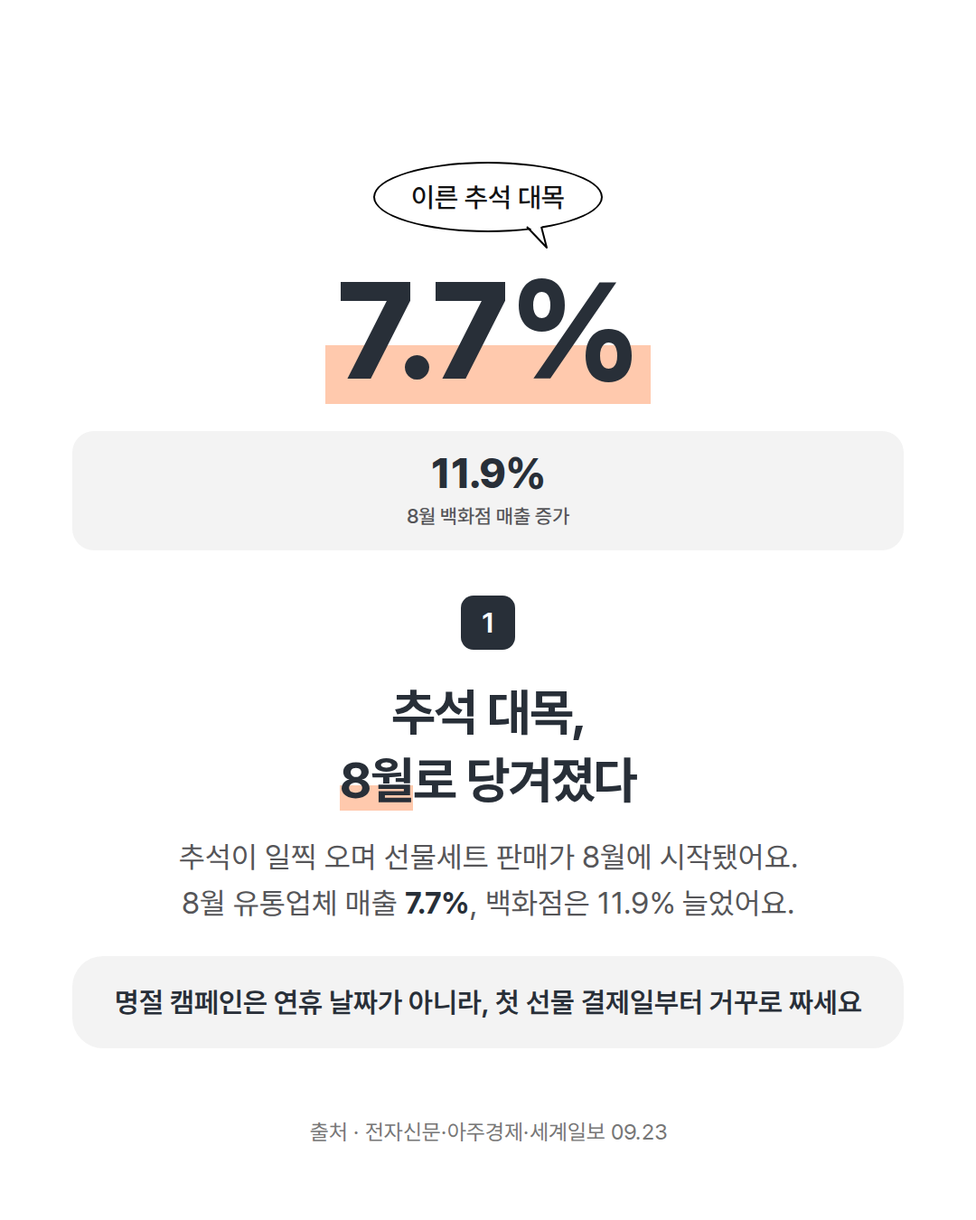
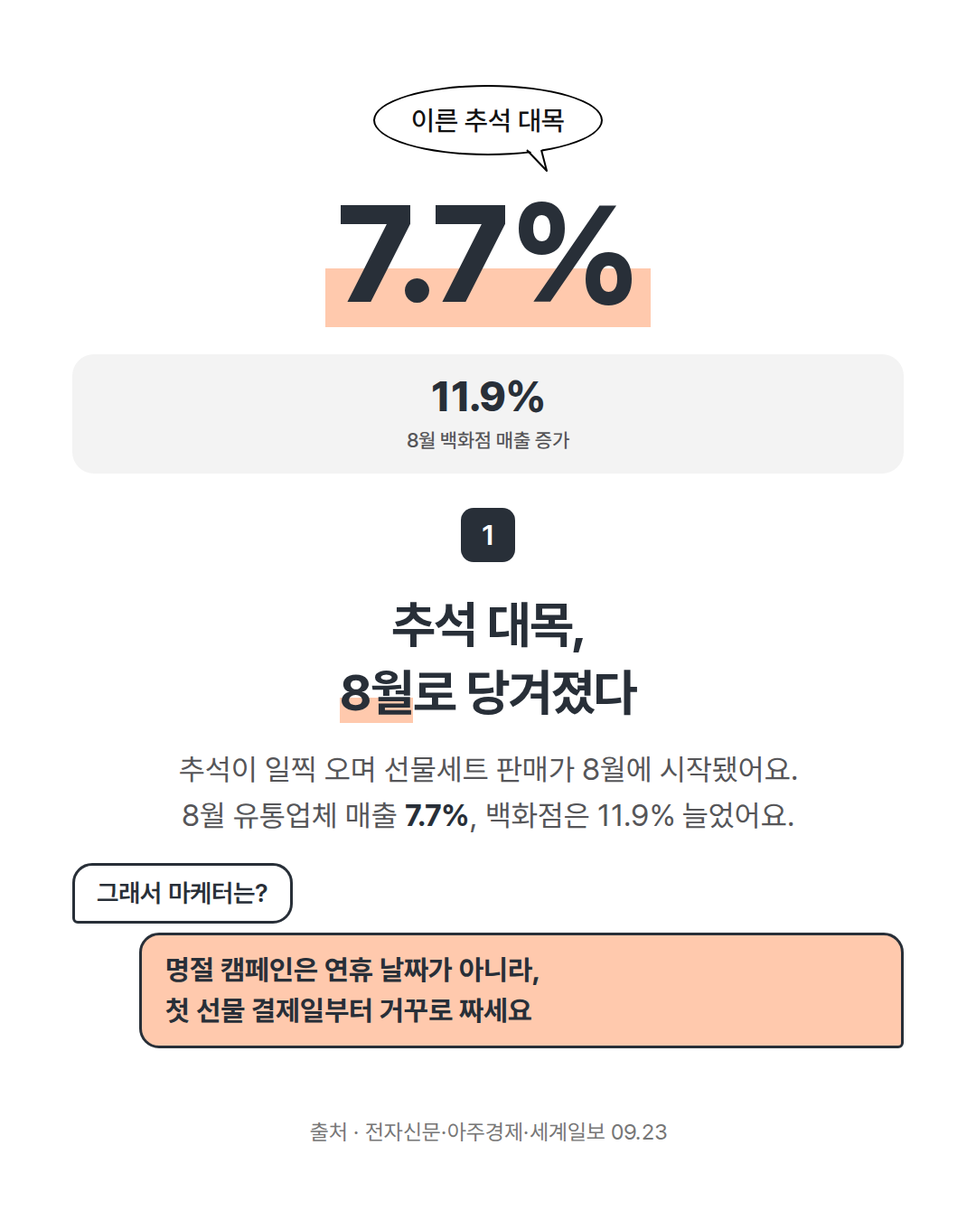
Newneek-inspired cover, dialogue insight, caption, optional photo cover
After comparing against @newneek.official posts:

- cover: title lines as bordered strips (legible at grid size), a
  kicker line, and three sticker callouts built from issues 2-4
- issue cards: the insight becomes a "그래서 마케터는?" question bubble
  followed by an answer bubble instead of a grey box
- caption: hook + short summary, today's list, save/comment prompts,
  a comment-keyword DM line (config instagram.dm_keyword, default
  '에디트'; DMs are sent by hand) and the newsletter line
- optional real-photo cover: automation/fetch_photo.py searches
  Wikimedia Commons for CC0 / public-domain / CC BY images (CC BY-SA
  only with --allow-sa), saves to assets/photos/ and prints the credit;
  without network access it exits 2 and the keyword cover is used
- RUNBOOK/README updated; VOL.093 rebuilt (9 cards, no overflow)

Claude-Session: https://claude.ai/code/session_01ERT3EipEoswRZZJYwfnxsr

Changed region(s): [[0.0917, 0.0622, 0.9472, 0.8711]]

diff --git a/instagram/2026-09-24/index.html b/instagram/2026-09-24/index.html
@@ -47,11 +47,19 @@
 
 올해 추석이 이르게 찾아오면서 선물세트 대목이 8월로 당겨졌어요. 8월 주요 유통업체 매출은 1년 전보다 7.7% 늘었고, 백화점은 11.9% 뛰었어요.
 
-짧아진 연휴가 바꾼 소비, AI가 쥐기 시작한 장바구니, 다시 쓰이는 배달 플랫폼 규칙까지 — 오늘의 10가지 중 핵심을 6장에 담았어요.
+목요일의 마케팅 브리프 6가지 👇
+· 추석 대목, 8월로 당겨졌다
+· 연휴는 짧아졌는데, 지출은 늘었다
+· 멀리 대신 가까이, 근거리가 90%
+· GPT-6, 반값이 됐다
+· 우버, 배민의 새 주인 되나
+· 배달 수수료 상한, 비용은 누가 내나
 
-💬 여러분 브랜드의 &#x27;대목&#x27;은 달력보다 몇 주 먼저 오나요? 댓글로 알려주세요.
+📌 저장해두고 회의 전에 꺼내보세요
+💬 우리 브랜드의 대목은, 달력보다 몇 주 먼저 오나요? 댓글로 알려주세요
 
-📩 매 영업일 아침 9시, 뉴스레터로 받아보세요 — 프로필 링크
+📩 댓글에 &#x27;에디트&#x27; 남기면 뉴스레터 구독 링크를 DM으로 보내드려요
+매 영업일 아침 9시, 10가지 전문과 출처는 뉴스레터로 — 프로필 링크 @edit.h.kr
 #마케팅 #마케팅트렌드 #마케터 #추석마케팅 #명절마케팅 #유통트렌드 #AI커머스 #카드뉴스 #EDITH</pre>
   </section>
 </main>

diff --git a/automation/edith/cards.py b/automation/edith/cards.py
@@ -3,9 +3,9 @@
 Design M 카드뉴스 키트 '매거진 세트'(표지 24 → 본문 9 → 마무리 9) 규격을 재현한 것으로, 키트 원본
 파일·이미지는 쓰지 않고 실측한 치수·색만 옮겼다. 키트의 핑크는 EDIT H 브랜드 버밀리언 계열로 바꿨다.
 
-  01      표지     #호수·요일·브리프·N가지 칩 + 핵심어 대형 형광 마커 + 두 줄 제목. 사진이 있으면 사진 배경
+  01      표지     머리말 + 띠 제목 두 줄(뉴닉식) + 핵심어 대형 마커 또는 실사 사진 + 다른 이슈 스티커 3개
   02      요약     '오늘의 6가지 한눈에' — 번호·제목·숫자 목록(키트 본문 19·20 문법). 저장을 부르는 카드
-  03~08   이슈 6장  말풍선 태그 → 형광 마커 숫자 → 보조 수치 상자 → 번호 배지 → 제목 → 짧은 본문 → 인사이트 상자
+  03~08   이슈 6장  말풍선 태그 → 형광 마커 숫자 → 보조 수치 상자 → 번호 배지 → 제목 → 짧은 본문 → '그래서 마케터는?' 대화
                    H PICK 1장은 검정 배경 + 윤곽 숫자 + 노란 '(H PICK · 오늘의 핵심)', compare형은 BEFORE/AFTER 상자
   09      마무리   오늘의 저장각 + 프로필 카드(10개 이슈 전문 · 6장 핵심 카드 · N호 누적 발행)
 
@@ -138,34 +138,53 @@ def _photo_uri(path):
     return f"data:{mime};base64,{base64.b64encode(p.read_bytes()).decode()}"
 
 
+def _strip(text, bg, size=74):
+    """뉴닉식 띠 제목 — 줄마다 테두리 상자. 그리드 썸네일에서도 제목이 읽히게 한다."""
+    return (f'<div style="display:inline-block;background:{bg};border:4px solid {TEXT};padding:10px 22px 12px;'
+            f'font-weight:800;font-size:{fs(size)};line-height:1.15;letter-spacing:-1.5px;color:{TEXT};white-space:nowrap;">{plain(text)}</div>')
+
+
+def _sticker(text, rotate):
+    return (f'<div style="display:inline-block;transform:rotate({rotate}deg);background:#FFFFFF;border:3px solid {TEXT};'
+            f'padding:10px 18px;font-weight:700;font-size:30px;line-height:1;color:{TEXT};white-space:nowrap;'
+            f'box-shadow:0 3px 8px rgba(0,0,0,.14);">{esc(text)}</div>')
+
+
 def cover(d):
+    """머리말 → 띠 제목 두 줄 → (사진 또는 핵심어 대형 마커) + 오늘의 다른 이슈 스티커 3개."""
     cov = d["cards"]["cover"]
     photo = cov.get("photo")
-    fg = "#FFFFFF" if photo else TEXT
-    first, *rest = str(cov.get("title") or d["hero_title"]).split("\n")
-    chips = [(f"#{d['vol']}", True), (f"{WEEKDAY_FULL[d['weekday']]}의", False), ("브리프", False),
-             (f"{len(d['card_issues'])}가지", False)]
-    kw = cov["keyword"]
-    kw_size = fit_size(kw, 300)
-    keyword = (f'<div style="margin-top:70px;display:inline-block;padding:0 .06em;font-weight:800;font-size:{fs(kw_size)};'
-               f'line-height:1;letter-spacing:-{round(kw_size / 30)}px;color:{fg};white-space:nowrap;'
-               f'background:linear-gradient(180deg,transparent 62%,{ACC_FILL if not photo else "rgba(255,201,173,.55)"} 62%);">{esc(kw)}</div>')
+    l1, *rest = str(cov.get("title") or d["hero_title"]).split("\n")
+    l2 = " ".join(rest)
+    issues = d["card_issues"]
+    stickers = [f'{it["tag"]} {hero_value(it)}' for it in issues[1:4]]
+    spots = [("left:10px;top:0;", -3), ("right:0;top:230px;", 2), ("left:40px;top:430px;", -1.5)]
+    sticker_html = "".join(f'<div style="position:absolute;{pos}">{_sticker(t, r)}</div>' for t, (pos, r) in zip(stickers, spots))
+    kicker = f"#{d['vol']} {WEEKDAY_FULL[d['weekday']]}의 마케팅 브리프 | 오늘의 {len(issues)}가지"
     bg = ""
     if photo:
+        # 사진이 아래 60%를 채우고, 위쪽은 흰 그라데이션으로 띠 제목을 받친다
         bg = (f'<div style="position:absolute;inset:0;background:url(\'{_photo_uri(photo)}\') {cov.get("focus") or "center"}/cover no-repeat;"></div>'
-              '<div style="position:absolute;inset:0;background:rgba(0,0,0,.37);"></div>'
-              '<div style="position:absolute;inset:0;background:linear-gradient(180deg,rgba(0,0,0,0) 45%,rgba(0,0,0,.38) 100%);"></div>')
-    credit = (f'<div style="position:absolute;right:60px;bottom:48px;font-size:20px;color:rgba(255,255,255,.72);">'
+              '<div style="position:absolute;inset:0;background:linear-gradient(180deg,rgba(255,255,255,.97) 0%,'
+              'rgba(255,255,255,.9) 26%,rgba(255,255,255,0) 46%);"></div>')
+        hero = ""
+    else:
+        kw = cov["keyword"]
+        size = fit_size(kw, 380)
+        hero = (f'<div style="position:absolute;left:0;right:0;top:40px;text-align:center;"><span style="display:inline-block;'
+                f'padding:0 .06em;font-weight:800;font-size:{fs(size)};line-height:1;letter-spacing:-{round(size / 30)}px;color:{TEXT};'
+                f'background:linear-gradient(180deg,transparent 62%,{ACC_FILL} 62%);">{esc(kw)}</span></div>')
+    shadow = "text-shadow:0 1px 4px rgba(0,0,0,.55);" if photo else ""
+    foot_color = "#FFFFFF" if photo else MUTED
+    credit = (f'<div style="position:absolute;right:40px;bottom:24px;font-size:19px;color:rgba(255,255,255,.85);{shadow}">'
               f'{esc(cov["credit"])}</div>') if photo and cov.get("credit") else ""
     return _frame(f"""{bg}
-<div class="body" style="padding:0 60px 170px;justify-content:flex-end;align-items:center;text-align:center;">
-  {chip_row(chips)}
-  {keyword}
-  <div class="bal" style="margin-top:56px;font-size:{fs(80)};line-height:1.42;letter-spacing:-1.5px;color:{fg};">
-    <div style="font-weight:700;">{plain(first)}</div>
-    <div style="font-weight:400;">{plain(" ".join(rest))}</div>
-  </div>
-</div>{credit}""", "#000000" if photo else "#FFFFFF")
+<div class="body" style="padding:96px 60px 0;align-items:center;text-align:center;">
+  <div style="font-weight:700;font-size:28px;color:#5A5A5E;">{esc(kicker)}</div>
+  <div style="flex:none;margin-top:26px;display:flex;flex-direction:column;align-items:center;gap:14px;">{_strip(l1, "#FFFFFF")}{_strip(l2, ACC_FILL)}</div>
+  <div style="flex:none;position:relative;margin-top:70px;width:100%;height:560px;">{hero}{sticker_html}</div>
+</div>
+<div style="position:absolute;left:0;right:0;bottom:60px;text-align:center;font-weight:700;font-size:26px;color:{foot_color};{shadow}">밀어서 {len(issues)}가지 보기 →</div>{credit}""")
 
 
 def hero_value(it):
@@ -201,6 +220,18 @@ def stat_tiles(metrics, dark):
     return f'<div style="flex:none;display:flex;gap:14px;width:100%;margin-top:30px;">{tiles}</div>'
 
 
+def dialogue(take, dark):
+    """뉴닉식 대화 — 흰 질문 말풍선 '그래서 마케터는?' → 복숭아색 답 말풍선(인사이트). 키트 본문 21(Q&A) 문법과도 맞다."""
+    q_bg, q_fg = ("#1E1E21", "#FFFFFF") if dark else ("#FFFFFF", TEXT)
+    line = "#FFFFFF" if dark else TEXT
+    return (f'<div style="flex:none;width:100%;margin-top:26px;display:flex;flex-direction:column;gap:10px;">'
+            f'<div style="align-self:flex-start;background:{q_bg};border:3px solid {line};border-radius:22px 22px 22px 6px;'
+            f'padding:14px 24px;font-weight:600;font-size:{fs(28)};line-height:1.2;color:{q_fg};">그래서 마케터는?</div>'
+            f'<div class="bal" style="align-self:flex-end;max-width:92%;background:{ACC_FILL};border:3px solid {line};'
+            f'border-radius:22px 22px 6px 22px;padding:16px 26px;text-align:left;font-weight:700;font-size:{fs(31)};'
+            f'line-height:1.45;color:{TEXT};">{mk(take, TEXT)}</div></div>')
+
+
 def issue_card(it, n):
     dark = bool(it.get("accent"))
     fg = "#FFFFFF" if dark else TEXT
@@ -223,12 +254,12 @@ def issue_card(it, n):
   {bubble(it["tag"])}
   {hero}
   {tiles}
-  <div style="flex:none;height:50px;"></div>
+  <div style="flex:none;height:38px;"></div>
   {badge}
   {pick}
   <div class="bal" style="margin-top:{22 if dark else 32}px;font-weight:700;font-size:{fs(56)};line-height:1.34;letter-spacing:-1px;color:{fg};">{mk(it["headline"], fg, dark)}</div>
   <div class="bal" style="margin-top:22px;font-weight:400;font-size:{fs(33)};line-height:1.55;color:{"#BDBDBD" if dark else SUB};">{mk(it["body"], fg, dark)}</div>
-  <div class="bal" style="flex:none;margin-top:32px;width:100%;background:{"#1E1E21" if dark else BOX};border-radius:34px;padding:28px 40px;font-weight:600;font-size:{fs(31)};line-height:1.5;color:{fg};">{mk(it["takeaway"], fg, dark)}</div>
+  {dialogue(it["takeaway"], dark)}
 </div>
 <div style="position:absolute;left:60px;right:60px;bottom:80px;text-align:center;font-size:24px;line-height:1.4;color:{MUTED if dark else SRC_LIGHT};">출처 · {esc(it["source"])}</div>""",
                   "#000000" if dark else "#FFFFFF")

diff --git a/automation/fetch_photo.py b/automation/fetch_photo.py
@@ -1,0 +1,101 @@
+#!/usr/bin/env python3
+"""카드뉴스 표지 사진 — 위키미디어 커먼즈에서 재사용 가능한 사진을 찾아 내려받는다.
+
+뉴스 보도사진은 라이선스 없이 쓸 수 없으므로, 출처 표기만 하면 되는 사진(CC0·퍼블릭 도메인·CC BY)만 고른다.
+CC BY-SA 는 글자를 얹은 표지 이미지까지 같은 라이선스로 공개해야 할 수 있어 기본에서 뺐다(--allow-sa 로만 허용).
+키 없이 쓸 수 있는 공개 API 라서 클라우드 환경의 네트워크 허용 목록에
+commons.wikimedia.org · upload.wikimedia.org 두 도메인만 있으면 된다. 막혀 있으면 코드 2로 끝나고,
+그날은 사진 없이(핵심어 표지) 발행하면 된다.
+
+사용
+  python3 automation/fetch_photo.py "fresh vegetables market"            # 후보 목록(번호·라이선스·작가·설명)
+  python3 automation/fetch_photo.py "fresh vegetables market" --pick 3 --date 2026-09-28
+      → assets/photos/2026-09-28.jpg 저장 + content JSON 에 넣을 cards.cover 조각 출력
+
+고른 사진은 반드시 Read 도구로 눈으로 보고 쓴다(인물 얼굴·브랜드 로고·특정 매장 오인·사건 현장 사진 금지).
+"""
+import argparse
+import html
+import json
+import re
+import sys
+import urllib.parse
+import urllib.request
+from pathlib import Path
+
+ROOT = Path(__file__).resolve().parents[1]
+API = "https://commons.wikimedia.org/w/api.php"
+UA = "EDIT-H-newsletter/1.0 (https://vetnam555-del.github.io/edit-h-archive/)"
+OK_LICENSE = re.compile(r"^(cc0|pd|public domain|cc-by-\d|cc by \d)", re.I)
+SA_LICENSE = re.compile(r"^(cc-by-sa-\d|cc by-sa \d)", re.I)
+
+
+def _get(url):
+    req = urllib.request.Request(url, headers={"User-Agent": UA})
+    with urllib.request.urlopen(req, timeout=20) as r:
+        return r.read()
+
+
+def _text(v):
+    return re.sub(r"\s+", " ", html.unescape(re.sub(r"<[^>]+>", "", v or ""))).strip()
+
+
+def search(query, limit=15, allow_sa=False):
+    params = {
+        "action": "query", "format": "json", "generator": "search", "gsrnamespace": 6,
+        "gsrsearch": f"{query} filetype:bitmap", "gsrlimit": limit,
+        "prop": "imageinfo", "iiprop": "url|extmetadata|size|mime", "iiurlwidth": 1280,
+    }
+    data = json.loads(_get(f"{API}?{urllib.parse.urlencode(params)}"))
+    out = []
+    for page in sorted((data.get("query") or {}).get("pages", {}).values(), key=lambda p: p.get("index", 0)):
+        info = (page.get("imageinfo") or [{}])[0]
+        meta = info.get("extmetadata") or {}
+        lic = _text((meta.get("LicenseShortName") or {}).get("value")) or _text((meta.get("License") or {}).get("value"))
+        if not (OK_LICENSE.match(lic) or (allow_sa and SA_LICENSE.match(lic))) or info.get("mime") not in ("image/jpeg", "image/png"):
+            continue  # NC·ND·공정 이용 등 재사용 조건이 맞지 않는 사진은 뺀다
+        if info.get("width", 0) < 1080:
+            continue
+        out.append({
+            "title": page["title"], "license": lic,
+            "artist": _text((meta.get("Artist") or {}).get("value"))[:80] or "작가 미상",
+            "description": _text((meta.get("ImageDescription") or {}).get("value"))[:160],
+            "thumb": info.get("thumburl") or info.get("url"), "page": info.get("descriptionurl"),
+            "size": f"{info.get('width')}×{info.get('height')}",
+        })
+    return out
+
+
+def main():
+    ap = argparse.ArgumentParser()
+    ap.add_argument("query", help="영어 검색어가 결과가 많다 (예: 'shopping mall crowd', 'delivery scooter')")
+    ap.add_argument("--pick", type=int, help="내려받을 후보 번호")
+    ap.add_argument("--date", help="YYYY-MM-DD — 저장 파일명")
+    ap.add_argument("--allow-sa", action="store_true", help="CC BY-SA 사진도 후보에 넣는다(표지도 같은 라이선스가 될 수 있음)")
+    args = ap.parse_args()
+    try:
+        cands = search(args.query, allow_sa=args.allow_sa)
+    except OSError as e:
+        print(f"✗ 위키미디어 커먼즈에 접속하지 못했습니다({type(e).__name__}) — 네트워크 허용 목록에 "
+              "commons.wikimedia.org · upload.wikimedia.org 가 있는지 확인하세요. 오늘은 사진 없이 발행합니다.")
+        sys.exit(2)
+    if not cands:
+        print("✗ 재사용 가능한 후보가 없습니다 — 검색어를 바꿔 보거나 사진 없이 발행하세요.")
+        sys.exit(1)
+    if args.pick is None:
+        for i, c in enumerate(cands, 1):
+            print(f"[{i}] {c['title']} · {c['license']} · {c['artist']} · {c['size']}\n     {c['description']}\n     {c['page']}")
+        return
+    if not args.date:
+        sys.exit("--pick 에는 --date 가 필요합니다")
+    c = cands[args.pick - 1]
+    dest = ROOT / "assets" / "photos" / f"{args.date}{'.png' if c['thumb'].lower().endswith('.png') else '.jpg'}"
+    dest.parent.mkdir(parents=True, exist_ok=True)
+    dest.write_bytes(_get(c["thumb"]))
+    credit = f"사진 = {c['artist']} / Wikimedia Commons ({c['license']})"
+    print(f"✓ {dest.relative_to(ROOT)} 저장 ({dest.stat().st_size // 1024}KB) — Read 도구로 사진을 직접 보고 쓸지 결정하세요")
+    print(json.dumps({"photo": str(dest.relative_to(ROOT)), "credit": credit, "photo_source": c["page"]}, ensure_ascii=False))
+
+
+if __name__ == "__main__":
+    main()

diff --git a/automation/edith/site.py b/automation/edith/site.py
@@ -2,7 +2,7 @@
 import json
 import re
 
-from .common import INDEX, MANIFEST, esc, plain, send_time_ko
+from .common import load_config, INDEX, MANIFEST, esc, plain, send_time_ko
 
 
 def update_manifest(d, site, n_cards, publish_time):
@@ -116,17 +116,21 @@ document.getElementById('copy').addEventListener('click', async (e) => {{
 
 
 def instagram_caption(d, site):
+    """뉴닉식 캡션: 질문형 첫 줄 + 대화체 요약 → 오늘의 N가지 목록 → 저장·댓글 유도 → 구독 안내 → 해시태그.
+
+    content 의 instagram.caption 에는 '첫 줄 훅 + 2~3문장 요약'만 쓴다. 나머지는 여기서 붙인다.
+    """
     ig = d.get("instagram", {})
-    if ig.get("caption"):
-        body = ig["caption"].strip()
-    else:
-        # VOL.092 캡션 구성: 훅 → 'O요일의 마케팅 브리프 N가지' → 카드 이슈 목록 → 뉴스레터 안내
-        issues = d["card_issues"]
-        lines = [plain(d["title"]), "", f"{d['weekday']}요일의 마케팅 브리프 {len(issues)}가지 —", ""]
-        lines += [f"· {plain(it['headline'])}" for it in issues]
-        lines += ["", f"핵심 {len(issues)}장으로 먼저 보고, 전체 {len(d['all_items'])}개 이슈는 뉴스레터에서 이어보세요."]
-        body = "\n".join(lines)
-    tags = ig.get("hashtags") or ["마케팅", "마케팅트렌드", "마케터", "브랜드마케팅", "카드뉴스", "EDITH"]
-    tags = " ".join("#" + re.sub(r"\s+", "", t.lstrip("#")) for t in tags)
+    issues = d["card_issues"]
+    head = (ig.get("caption") or "").strip() or f"{plain(d['title'])}\n\n{plain(d['lead'])}"
+    lines = [head, "", f"{d['weekday']}요일의 마케팅 브리프 {len(issues)}가지 👇"]
+    lines += [f"· {plain(it['headline'])}" for it in issues]
+    lines += ["", "📌 저장해두고 회의 전에 꺼내보세요", f"💬 {plain(d['question']['text'])} 댓글로 알려주세요", ""]
+    kw = (load_config().get("instagram") or {}).get("dm_keyword")
+    if kw:
+        lines.append(f"📩 댓글에 '{kw}' 남기면 뉴스레터 구독 링크를 DM으로 보내드려요")
     when = send_time_ko(d["send_time_kst"]).replace("오전", "아침")
-    return f"{body}\n\n📩 매 영업일 {when}, 뉴스레터로 받아보세요 — 프로필 링크\n{tags}"
+    lines.append(f"매 영업일 {when}, {len(d['all_items'])}가지 전문과 출처는 뉴스레터로 — 프로필 링크 @edit.h.kr")
+    tags = ig.get("hashtags") or ["마케팅", "마케팅트렌드", "마케터", "브랜드마케팅", "카드뉴스", "EDITH"]
+    lines.append(" ".join("#" + re.sub(r"\s+", "", t.lstrip("#")) for t in tags))
+    return "\n".join(lines)

diff --git a/automation/RUNBOOK.md b/automation/RUNBOOK.md
@@ -93,7 +93,7 @@ IT·산업 전문지(전자신문, ZDNet Korea, 디지털데일리, AI타임스,
 | `briefs` | 0~3개 짧은 소식 |
 | `question` | `text`(강조 `==…==`, 줄바꿈 `\n`), `closing` |
 | `cards` | 카드뉴스 9장용 — 아래 '카드뉴스' 참고 |
-| `instagram` | `caption`, `hashtags` (없으면 VOL.092 형식으로 자동 생성) |
+| `instagram` | `caption` = **첫 줄 질문형 훅 + 대화체 2~3문장 요약만**(목록·저장/댓글 유도·구독 안내·해시태그는 자동으로 붙는다), `hashtags` 5~9개 |
 
 - 마크업: `**굵게**`, `==강조색==`, `\n` 줄바꿈. HTML 태그는 쓰지 않는다.
 - 톤: "~했어요/~예요" 구어체 존댓말, 문장은 짧게. takeaway 는 **마케터가 무엇을 하면 되는지** 한 문장.
@@ -108,9 +108,23 @@ IT·산업 전문지(전자신문, ZDNet Korea, 디지털데일리, AI타임스,
 
 | 필드 | 내용 |
 |---|---|
-| `cards.cover` | `title`(두 줄, 없으면 `hero_title`), `keyword`(표지에 크게 찍힐 핵심어 5자 이하 — 없으면 `hero_title` 의 `==강조==`). 사진을 쓰려면 `photo`(저장소 안 경로)·`credit`(출처·라이선스)·`focus`(선택). 없으면 흰 표지 |
-| `cards.issues` | 정확히 6개. `no`(뉴스레터 이슈 번호 1~10 — 태그·출처를 거기서 가져온다), `number`(큰 숫자, 9자 이하 예 `300억원`·`82%`), `headline`(두 줄 26자 이하, 핵심어 하나 `==강조==`), `body`(**1~2문장, 80자 이하** — 뉴스레터 본문을 그대로 옮기지 말고 핵심만), `takeaway`(60자 이하, 인사이트 상자). 선택: `metrics`(큰 숫자를 받쳐줄 보조 수치 `[{"value": "11.9%", "label": "8월 백화점 매출 증가"}]` 최대 2개, 값 8자·설명 16자 이하), `accent: true`(H PICK — 검정 반전, **하루 한 장**), `compare`(`{"from": {"value", "label"}, "to": {...}}` — 이전→이후 숫자가 핵심일 때, 이때 `number` 는 생략), `tag`(말풍선 문구를 바꿀 때) |
+| `cards.cover` | `title`(두 줄 — 각 줄이 띠 상자로 나간다, 없으면 `hero_title`), `keyword`(사진이 없을 때 크게 찍힐 핵심어 5자 이하 — 없으면 `hero_title` 의 `==강조==`). 표지 스티커 3개는 2~4번 이슈의 태그·숫자로 자동 생성. 사진을 쓰려면 `photo`(저장소 안 경로)·`credit`(출처·라이선스)·`focus`(선택). 없으면 흰 표지 |
+| `cards.issues` | 정확히 6개. `no`(뉴스레터 이슈 번호 1~10 — 태그·출처를 거기서 가져온다), `number`(큰 숫자, 9자 이하 예 `300억원`·`82%`), `headline`(두 줄 26자 이하, 핵심어 하나 `==강조==`), `body`(**1~2문장, 80자 이하** — 뉴스레터 본문을 그대로 옮기지 말고 핵심만), `takeaway`(60자 이하 — '그래서 마케터는?'에 대한 답 말풍선). 선택: `metrics`(큰 숫자를 받쳐줄 보조 수치 `[{"value": "11.9%", "label": "8월 백화점 매출 증가"}]` 최대 2개, 값 8자·설명 16자 이하), `accent: true`(H PICK — 검정 반전, **하루 한 장**), `compare`(`{"from": {"value", "label"}, "to": {...}}` — 이전→이후 숫자가 핵심일 때, 이때 `number` 는 생략), `tag`(말풍선 문구를 바꿀 때) |
 | `cards.cta` | `headline`(없으면 `question.text`), 나머지(`kick` 오늘의 저장각·`sub`·`pill`)는 기본값 |
+
+### 표지 사진 (선택, 10분 안에)
+
+뉴닉처럼 실사 사진 표지가 스크롤을 더 잘 멈추게 한다. 단 보도사진은 쓸 수 없으니 재사용 가능한 사진만 쓴다.
+
+```bash
+python3 automation/fetch_photo.py "영어 검색어"                       # 후보: 번호·라이선스·작가·설명
+python3 automation/fetch_photo.py "영어 검색어" --pick 3 --date {날짜}  # assets/photos/{날짜}.jpg 저장 + cards.cover 조각 출력
+```
+
+- 내려받은 사진은 **Read 도구로 직접 보고** 쓴다. 금지: 얼굴이 식별되는 사람, 크게 보이는 브랜드 로고·특정 매장 간판(오인 소지),
+  사건·사고·수사 현장, 기사와 무관한 이국적 풍경. (로컬 VOL.092 때 창고 사진이 실제로는 수사 증거사진이었던 사례가 있다)
+- 출력된 `photo`·`credit` 을 `cards.cover` 에 넣고, 5단계 커밋에 `assets/photos/` 를 포함한다.
+- 접속 실패(코드 2)·적당한 사진 없음이면 사진 없이(핵심어 표지) 진행한다. 사진 때문에 발행을 늦추지 않는다.
 
 카드 문구 원칙(디자인엠 키트의 기획 가이드를 EDIT H에 맞게 줄인 것):
 - 표지는 3초 안에 이해돼야 한다 — 질문·숫자·강한 키워드 중 하나 이상, 과장·낚시 금지.
@@ -140,7 +154,7 @@ python3 automation/build_issue.py {날짜}           # 뉴스레터·카드·man
 ## 5. 커밋·푸시
 
 ```bash
-git add {날짜}.html content/{날짜}.json instagram/{날짜}/ manifest.json index.html
+git add {날짜}.html content/{날짜}.json instagram/{날짜}/ manifest.json index.html assets/photos/
 git commit -m "Publish EDIT H {날짜} (VOL.{vol}) — {title}"
 git push origin HEAD:main
 ```

diff --git a/automation/README.md b/automation/README.md
@@ -93,5 +93,9 @@ content/YYYY-MM-DD.json 호마다의 원본 콘텐츠(출처 URL 포함)
 | 뉴스레터와 디자인 통일 | ○ | ○ | ✕ |
 | 저장 유도 장치 | 마무리 | **요약 + 마무리** | 마무리 |
 
+2026-09-24 뉴닉(@newneek.official) 게시물 비교 후 보강: 표지 제목을 줄마다 띠 상자로(그리드에서 읽히게), 표지에 다른 이슈
+스티커 3개, 인사이트를 '그래서 마케터는?' 대화 말풍선으로, 캡션을 '질문형 훅 → 오늘의 목록 → 저장·댓글 유도 → 댓글 키워드 DM 안내'로.
+표지 실사 사진은 위키미디어 커먼즈의 CC0·퍼블릭 도메인·CC BY 사진만(`automation/fetch_photo.py`, 네트워크 허용 필요) 쓰고,
+못 구하면 핵심어 표지로 자동 전환한다. 댓글 키워드는 `config.json` 의 `instagram.dm_keyword`(기본 '에디트') — DM 은 직접 보낸다.
 출처 글자는 흰 배경에서 #767676(대비 4.5:1)로 올렸다(키트 실측색 #939393 은 3.1:1 이라 접근성 기준 미달).
 키트 원본 파일·이미지는 쓰지 않는다. 프로필 마크는 VOL.092 발행 뒤 바뀐 최신 버전(버밀리언 원 + 안경).
